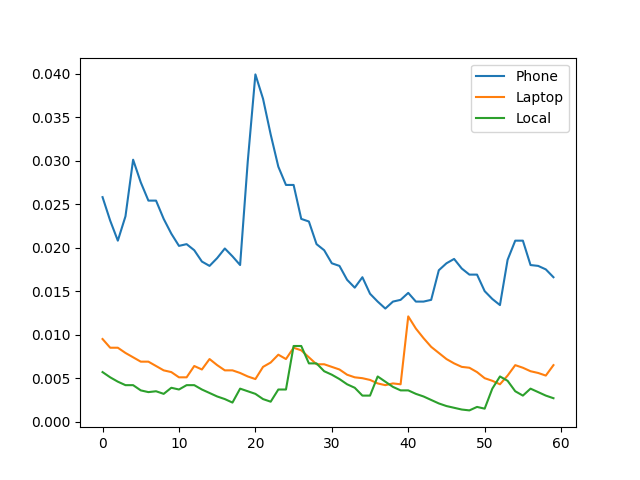
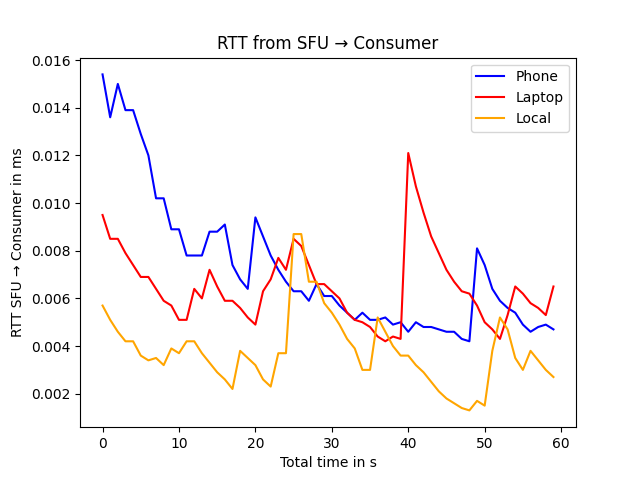
new plot, readme

diff --git a/evaluation/Analyze_RTT.py b/evaluation/Analyze_RTT.py
@@ -12,15 +12,19 @@ df_laptop['timestamp'] = pd.to_datetime(df_laptop['timestamp'])
 df_phone['timestamp'] = pd.to_datetime(df_phone['timestamp'])
 df_same['timestamp'] = pd.to_datetime(df_same['timestamp'])
 
-print(df_phone['rtt'].mean())
-print(df_laptop['rtt'].mean())
-print(df_same['rtt'].mean())
+phone_mean = df_phone['rtt'].mean()
+laptop_mean = df_laptop['rtt'].mean()
+same_mean = df_same['rtt'].mean()
 
 fig, ax = plt.subplots()
 
-df_phone.plot(y="rtt", ax=ax)
-df_laptop.plot(y="rtt", ax=ax)
-df_same.plot(y="rtt", ax=ax)
+df_phone.plot(y="rtt", ax=ax, color='blue')
+df_laptop.plot(y="rtt", ax=ax, color='red')
+df_same.plot(y="rtt", ax=ax, color='orange')
 
 ax.legend(["Phone", "Laptop", "Local"])
+ax.set_xlabel("Total time in s")
+ax.set_ylabel("RTT SFU \u2192 Consumer in ms")
+ax.set_title("RTT from SFU \u2192 Consumer")
 fig.savefig(ROOT + '/figures/rtt_edge.png')
+fig.show()

diff --git a/Readme.md b/Readme.md
@@ -2,6 +2,14 @@
 
 ## Work in Progress
 
+#### Nvidia Jetson
+
+- [ ] Setup Jetson environment
+- [ ] Clone project in Jetson
+- [ ] Setup ONNX environment
+- [ ] Run SFU there
+- [ ] ...
+
 #### SFU Streaming
 
 - [x] Share TransformationTracks between multiple consumers
